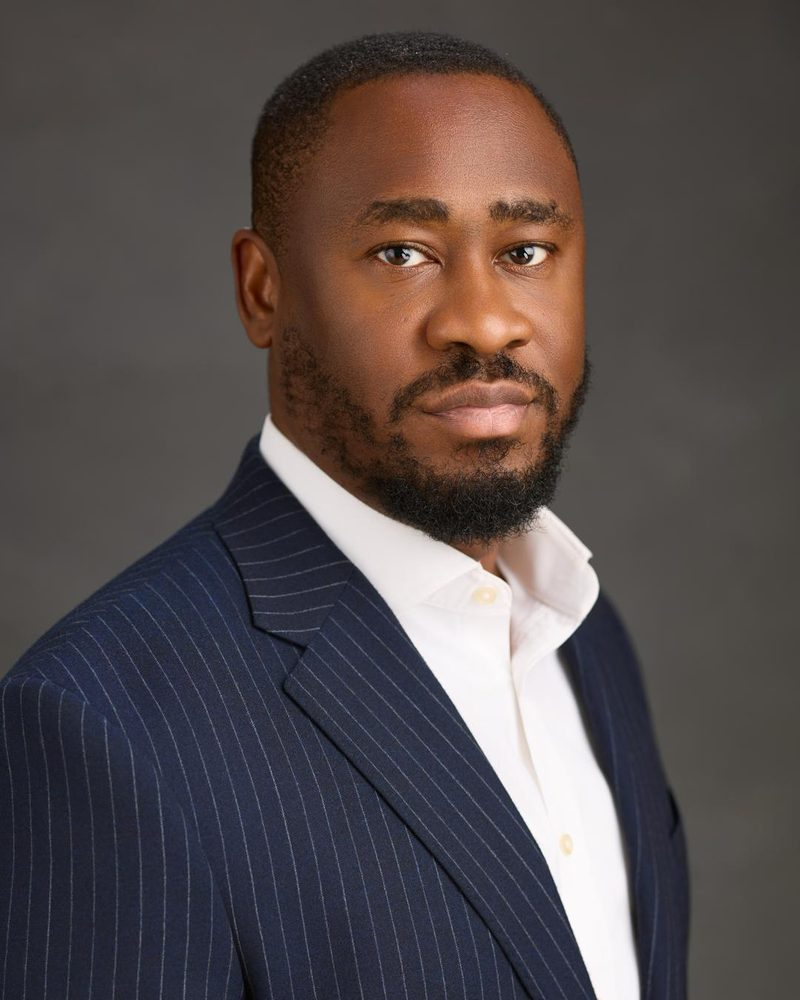
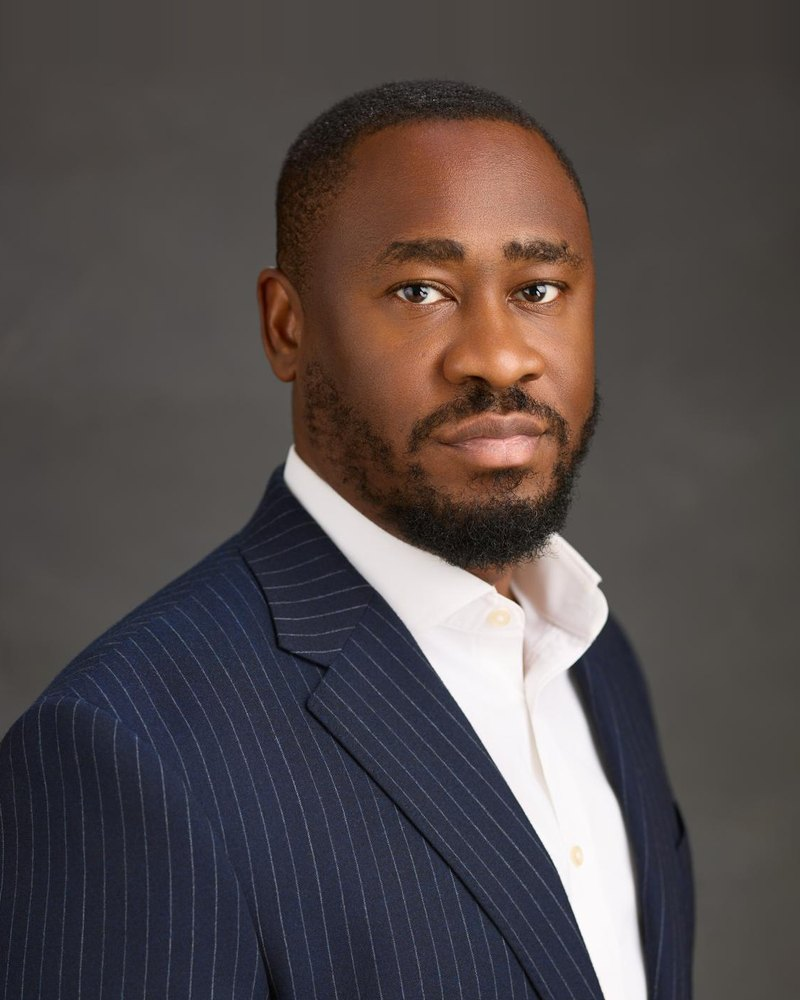
Switch to self-hosted Montserrat; re-crop leadership portraits
Font
- Montserrat for everything (headings, body, nav, buttons, labels),
  bundled from @fontsource/montserrat in weights 400/500/600/700, so no
  request goes to Google. Fallback: ui-sans-serif, system-ui,
  -apple-system, 'Segoe UI', Roboto, sans-serif.
- Replaces Manrope and Instrument Serif. Accent words in headings are
  Montserrat too, upright (no italic files loaded); 800-weight labels
  now use 700.
- Desktop nav spacing tightened slightly between 960 and 1023px so the
  wider font still fits the bar.

Leadership
- Isaac Awofisayo and Dr Abdullahi Ndarubu re-cropped with room above
  the head (background extended where the original had none); Martins
  Awofisayo re-cropped from the original with more headroom.
- Square card and pop-up crops now keep the top of the photo, so any
  trimming comes off the bottom rather than the head.

Claude-Session: https://claude.ai/code/session_01F2336eQEZroWfRjnmknaY9

diff --git a/components/leader-card.tsx b/components/leader-card.tsx
@@ -5,7 +5,7 @@ import { ArrowUpRight, X } from 'lucide-react'
 import { type Leader, leaderPhoto } from '@/lib/leadership'
 import { cn } from '@/lib/utils'
 
-const roleClass = 'text-[10px] font-extrabold uppercase tracking-[0.14em] text-hf-moss sm:text-[11px]'
+const roleClass = 'text-[10px] font-bold uppercase tracking-[0.14em] text-hf-moss sm:text-[11px]'
 
 /** A short card (photo, role, name, one-line intro); "Read more" opens the full profile in a dialog. */
 export function LeaderCard({ leader, className, style }: { leader: Leader; className?: string; style?: CSSProperties }) {
@@ -33,7 +33,7 @@ export function LeaderCard({ leader, className, style }: { leader: Leader; class
       style={style}
     >
       <button type="button" onClick={open} aria-label={`Read ${leader.name}’s profile`} className="relative aspect-square overflow-hidden rounded-[22px] bg-hf-forest max-sm:aspect-[4/5] max-sm:w-[5.5rem] max-sm:shrink-0 max-sm:rounded-2xl">
-        <img src={photo} alt={leader.name} loading="lazy" className="h-full w-full object-cover object-[center_25%] transition duration-700 group-hover:scale-105" />
+        <img src={photo} alt={leader.name} loading="lazy" className="h-full w-full object-cover object-top transition duration-700 group-hover:scale-105" />
       </button>
       <div className="flex flex-1 flex-col px-3 pb-3 pt-5 max-sm:min-w-0 max-sm:p-0 max-sm:pr-1">
         <p className={roleClass}>{leader.role}</p>
@@ -54,7 +54,7 @@ export function LeaderCard({ leader, className, style }: { leader: Leader; class
         {/* Portrait sits at the top of a full-height brand column; only the text column scrolls */}
         <div className="flex max-h-[inherit]">
           <div className="hidden w-64 shrink-0 bg-gradient-to-b from-hf-forest to-hf-night p-5 sm:block">
-            <img src={photo} alt="" className="aspect-[4/5] w-full rounded-2xl object-cover object-[center_25%] shadow-[0_20px_40px_-20px_rgba(0,0,0,.6)] ring-1 ring-white/15" />
+            <img src={photo} alt="" className="aspect-[4/5] w-full rounded-2xl object-cover object-top shadow-[0_20px_40px_-20px_rgba(0,0,0,.6)] ring-1 ring-white/15" />
           </div>
           <div className="relative min-w-0 flex-1 overflow-y-auto overscroll-contain px-5 pb-8 sm:px-10 sm:pb-10">
             <div className="sticky top-0 z-10 -mx-5 flex justify-end bg-gradient-to-b from-hf-cream via-hf-cream/95 to-hf-cream/0 px-3 pb-3 pt-3 sm:-mx-10 sm:px-5 sm:pt-5">
@@ -63,7 +63,7 @@ export function LeaderCard({ leader, className, style }: { leader: Leader; class
               </button>
             </div>
             <div className="flex items-center gap-4 sm:block">
-              <img src={photo} alt="" className="h-16 w-16 shrink-0 rounded-2xl object-cover object-[center_25%] sm:hidden" />
+              <img src={photo} alt="" className="h-16 w-16 shrink-0 rounded-2xl object-cover object-top sm:hidden" />
               <div>
                 <p className={roleClass}>{leader.role}</p>
                 <h3 id={nameId} className="mt-1.5 text-2xl font-semibold leading-tight tracking-[-0.03em] sm:mt-3 sm:text-4xl">{leader.name}</h3>

diff --git a/components/site-header.tsx b/components/site-header.tsx
@@ -174,7 +174,7 @@ export function SiteHeader() {
                         <Link
                           href={link.href}
                           aria-current={active ? 'page' : undefined}
-                          className={cn('relative block whitespace-nowrap py-2.5 text-[13px] font-semibold transition-colors duration-300 xl:text-[15px]', isProducts ? 'pl-2.5 xl:pl-4' : 'px-2.5 xl:px-4', active ? 'text-hf-forest' : 'text-hf-leaf/75 hover:text-hf-forest')}
+                          className={cn('relative block whitespace-nowrap py-2.5 text-[12.5px] font-semibold transition-colors duration-300 lg:text-[13px] xl:text-[15px]', isProducts ? 'pl-2 lg:pl-2.5 xl:pl-4' : 'px-2 lg:px-2.5 xl:px-4', active ? 'text-hf-forest' : 'text-hf-leaf/75 hover:text-hf-forest')}
                         >
                           {link.label}
                           {active && <span className="absolute bottom-0.5 left-1/2 h-1 w-1 -translate-x-1/2 rounded-full bg-hf-gold" />}
@@ -186,7 +186,7 @@ export function SiteHeader() {
                             aria-expanded={productsOpen}
                             aria-controls="products-menu"
                             onClick={() => (productsOpen ? setProductsOpen(false) : openProducts())}
-                            className="flex h-9 items-center pl-0.5 pr-2.5 text-hf-leaf/70 transition-colors hover:text-hf-forest xl:pl-1 xl:pr-3.5"
+                            className="flex h-9 items-center pl-0.5 pr-2 text-hf-leaf/70 transition-colors hover:text-hf-forest lg:pr-2.5 xl:pl-1 xl:pr-3.5"
                           >
                             <ChevronDown size={15} className={cn('transition-transform duration-300', productsOpen && 'rotate-180')} />
                           </button>
@@ -198,7 +198,7 @@ export function SiteHeader() {
               </nav>
 
               <div className="flex items-center gap-2">
-                <Link href="/contact" className="hf-btn hf-btn-gold hidden px-4 py-2.5 text-[13px] desk:inline-flex xl:px-6 xl:py-3 xl:text-[14px]">
+                <Link href="/contact" className="hf-btn hf-btn-gold hidden px-3.5 py-2.5 text-[12.5px] desk:inline-flex lg:px-4 lg:text-[13px] xl:px-6 xl:py-3 xl:text-[14px]">
                   Get in touch <ArrowUpRight size={15} />
                 </Link>
                 <button

diff --git a/app/partners/page.tsx b/app/partners/page.tsx
@@ -48,7 +48,7 @@ export default function PartnersPage() {
         <div className="mt-7 grid grid-cols-2 gap-3 sm:mt-12 sm:gap-4 lg:grid-cols-5">
           {distributionPartners.map((name, index) => (
             <div key={name} className="hf-reveal hf-card hf-spotlight hf-spotlight-light group flex aspect-[4/3] flex-col justify-between overflow-hidden rounded-3xl border border-white/80 bg-gradient-to-br from-white to-hf-sand/60 p-4 shadow-[inset_0_1px_0_#fff,0_20px_40px_-30px_rgba(23,60,43,.45)] sm:p-6 lg:aspect-[5/4] max-sm:aspect-auto max-sm:min-h-[7.375rem] max-sm:last:col-span-2" style={stagger(index, 80)}>
-              <span aria-hidden className="pointer-events-none absolute -right-3 -top-10 font-serif text-[6.875rem] italic leading-none sm:text-[150px] text-hf-forest/[0.05] transition-transform duration-700 group-hover:-translate-x-2 group-hover:scale-110">{name[0]}</span>
+              <span aria-hidden className="pointer-events-none absolute -right-3 -top-10 font-serif text-[6.875rem] leading-none sm:text-[150px] text-hf-forest/[0.05] transition-transform duration-700 group-hover:-translate-x-2 group-hover:scale-110">{name[0]}</span>
               <BadgeCheck size={20} className="relative text-hf-moss transition-transform duration-500 group-hover:rotate-12 group-hover:scale-110" />
               <div className="relative">
                 <p className="text-2xl font-bold tracking-[-0.04em] sm:text-3xl">{name}</p>

diff --git a/app/layout.tsx b/app/layout.tsx
@@ -1,14 +1,16 @@
 import { Analytics } from '@vercel/analytics/next'
 import type { Metadata, Viewport } from 'next'
-import { Instrument_Serif, Manrope } from 'next/font/google'
+// Montserrat, self-hosted: bundled from the @fontsource package, so pages make no request to Google for fonts
+import '@fontsource/montserrat/400.css'
+import '@fontsource/montserrat/500.css'
+import '@fontsource/montserrat/600.css'
+import '@fontsource/montserrat/700.css'
 import { MotionProvider } from '@/components/motion-provider'
 import { SiteFooter } from '@/components/site-footer'
 import { SiteHeader } from '@/components/site-header'
 import { basePath } from '@/lib/site-data'
 import './globals.css'
 
-const sans = Manrope({ subsets: ['latin'], variable: '--font-manrope', display: 'swap' })
-const serif = Instrument_Serif({ subsets: ['latin'], weight: '400', style: ['normal', 'italic'], variable: '--font-instrument', display: 'swap' })
 
 export const metadata: Metadata = {
   title: {
@@ -47,7 +49,7 @@ export default function RootLayout({
   children: React.ReactNode
 }>) {
   return (
-    <html lang="en" data-scroll-behavior="smooth" className={`${sans.variable} ${serif.variable}`}>
+    <html lang="en" data-scroll-behavior="smooth">
       <body className="antialiased">
         <SiteHeader />
         <main id="main" className="min-h-screen overflow-x-clip">{children}</main>

diff --git a/app/globals.css b/app/globals.css
@@ -174,9 +174,11 @@
   --breakpoint-desk: 60rem;
 }
 
+/* Montserrat everywhere (headings, body, nav, buttons, labels). The fallbacks are only used if it fails to load. */
 @theme inline {
-  --font-sans: var(--font-manrope), ui-sans-serif, system-ui, sans-serif;
-  --font-serif: var(--font-instrument), Georgia, 'Times New Roman', serif;
+  --font-sans: 'Montserrat', ui-sans-serif, system-ui, -apple-system, 'Segoe UI', Roboto, sans-serif;
+  /* The accent words in headings used to be a serif; they are Montserrat too now, set apart by colour and weight */
+  --font-serif: 'Montserrat', ui-sans-serif, system-ui, -apple-system, 'Segoe UI', Roboto, sans-serif;
 }
 
 @layer base {
@@ -191,6 +193,8 @@
     font-family: var(--font-sans);
   }
   [id] { scroll-margin-top: 7rem; }
+  /* Only upright weights are loaded, so accent words stay upright rather than using a faked italic */
+  .font-serif { font-style: normal; }
   ::selection { background: #d7e36b; color: #173c2b; }
   :focus-visible { outline: 2px solid #d39522; outline-offset: 3px; }
 }
@@ -200,7 +204,7 @@
   .eyebrow {
     color: #839b2f;
     font-size: 11px;
-    font-weight: 800;
+    font-weight: 700;
     letter-spacing: 0.22em;
     text-transform: uppercase;
   }

diff --git a/app/free-trade-zone/page.tsx b/app/free-trade-zone/page.tsx
@@ -70,7 +70,7 @@ export default function FreeTradeZonePage() {
               <article key={title} className="hf-reveal hf-card hf-spotlight hf-spotlight-light group rounded-3xl border border-white/80 bg-gradient-to-b from-white/95 to-white/55 p-5 shadow-[inset_0_1px_0_#fff] sm:p-7" style={stagger(index, 80)}>
                 <div className="flex items-center justify-between">
                   <span className="flex h-10 w-10 items-center justify-center rounded-2xl bg-gradient-to-br from-hf-forest to-hf-leaf text-hf-lime shadow-[inset_0_1px_0_rgba(255,255,255,.2)] transition-transform duration-500 group-hover:-rotate-6 sm:h-12 sm:w-12"><Icon size={20} /></span>
-                  <span className="font-serif text-2xl italic text-hf-gold/70 sm:text-3xl">0{index + 1}</span>
+                  <span className="font-serif text-2xl text-hf-gold/70 sm:text-3xl">0{index + 1}</span>
                 </div>
                 <h3 className="mt-4 text-lg font-semibold tracking-[-0.02em] sm:mt-7 sm:text-xl">{title}</h3>
                 <p className="mt-1.5 text-[1rem] leading-6 text-hf-sage sm:mt-3 sm:text-base sm:leading-7">{text}</p>

diff --git a/app/about/page.tsx b/app/about/page.tsx
@@ -86,7 +86,7 @@ export default function AboutPage() {
             {milestones.map((milestone, index) => (
               <li key={milestone.title} className="hf-reveal group relative pb-7 pl-10 last:pb-0 sm:pb-12 sm:pl-14" style={stagger(index, 90)}>
                 <span className="absolute left-0 top-1 flex h-6 w-6 items-center justify-center rounded-full bg-hf-cream ring-1 ring-hf-gold/40"><span className="h-2.5 w-2.5 rounded-full bg-hf-gold transition-transform duration-300 group-hover:scale-150" /></span>
-                <p className="text-xs font-extrabold uppercase tracking-[0.2em] text-hf-gold">{milestone.marker}</p>
+                <p className="text-xs font-bold uppercase tracking-[0.2em] text-hf-gold">{milestone.marker}</p>
                 <h3 className="mt-2 text-xl font-semibold tracking-[-0.03em] sm:mt-3 sm:text-2xl">{milestone.title}</h3>
                 <p className="mt-2 max-w-xl text-[1rem] leading-6 text-hf-sage sm:mt-3 sm:text-base sm:leading-7">{milestone.text}</p>
               </li>

diff --git a/app/products/page.tsx b/app/products/page.tsx
@@ -113,7 +113,7 @@ export default function ProductsPage() {
             ['03', 'Collect near you', 'Pick up from one of 33 offices and warehouses across Nigeria.'],
           ].map(([step, title, text], index) => (
             <div key={step} className="hf-reveal border-t border-hf-line pt-4 max-sm:flex max-sm:gap-4 sm:pt-6" style={stagger(index, 100)}>
-              <span className="font-serif text-4xl italic leading-none text-hf-gold sm:text-5xl">{step}</span>
+              <span className="font-serif text-4xl leading-none text-hf-gold sm:text-5xl">{step}</span>
               <div>
                 <h3 className="text-lg font-semibold tracking-[-0.02em] sm:mt-4 sm:text-xl">{title}</h3>
                 <p className="mt-1 text-[1rem] leading-6 text-hf-sage sm:mt-2 sm:text-base sm:leading-7">{text}</p>
